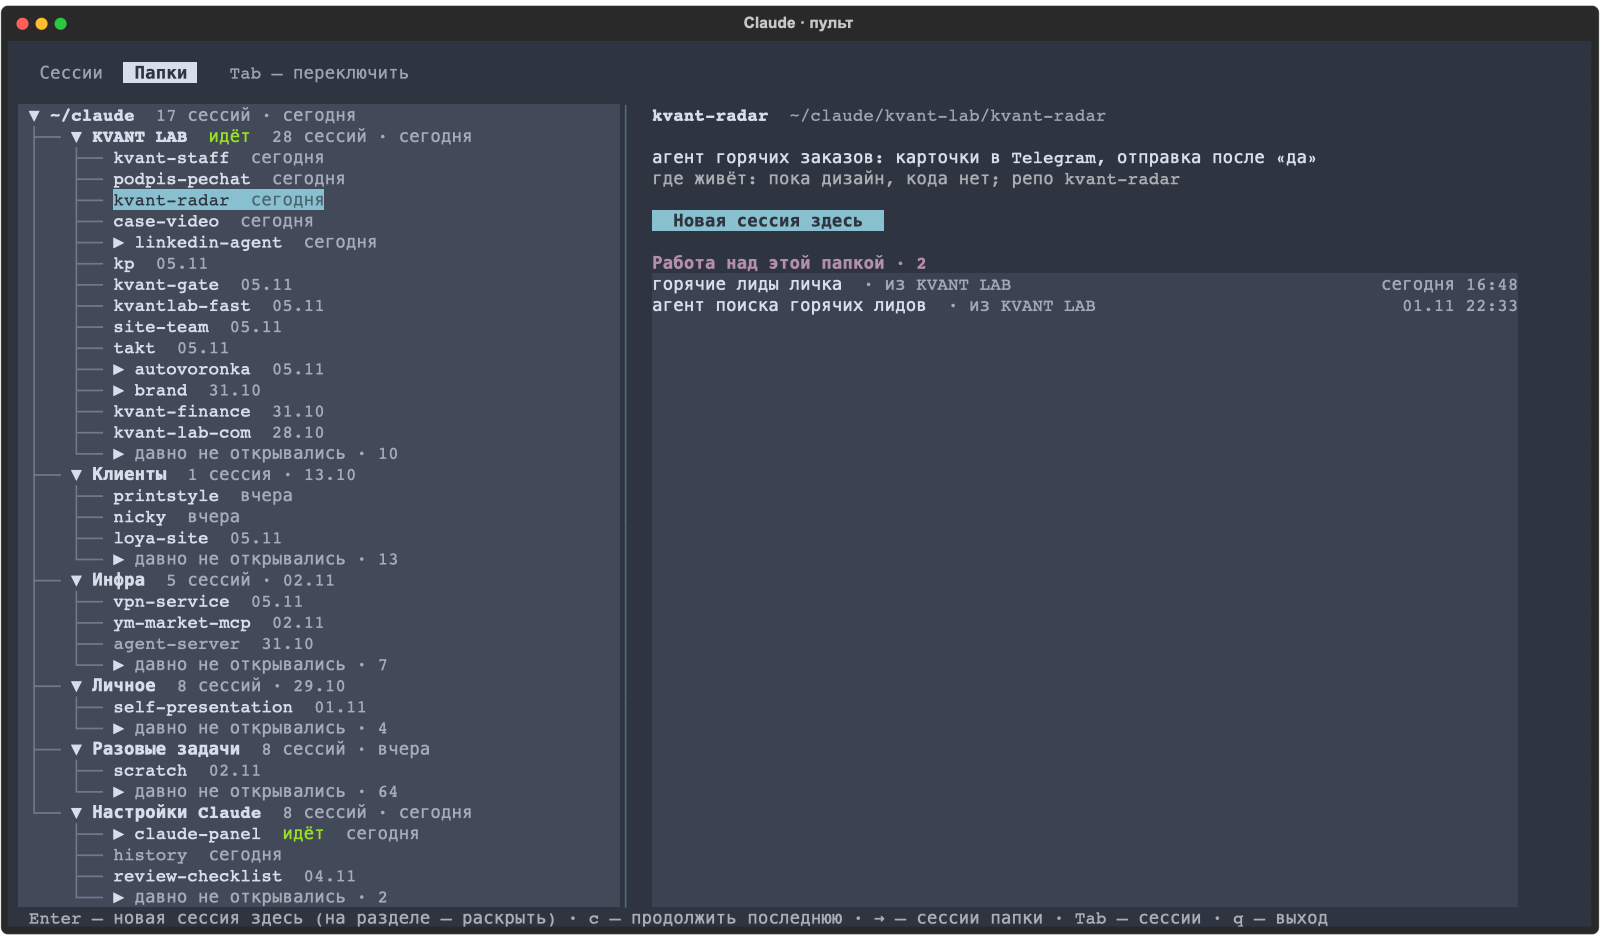
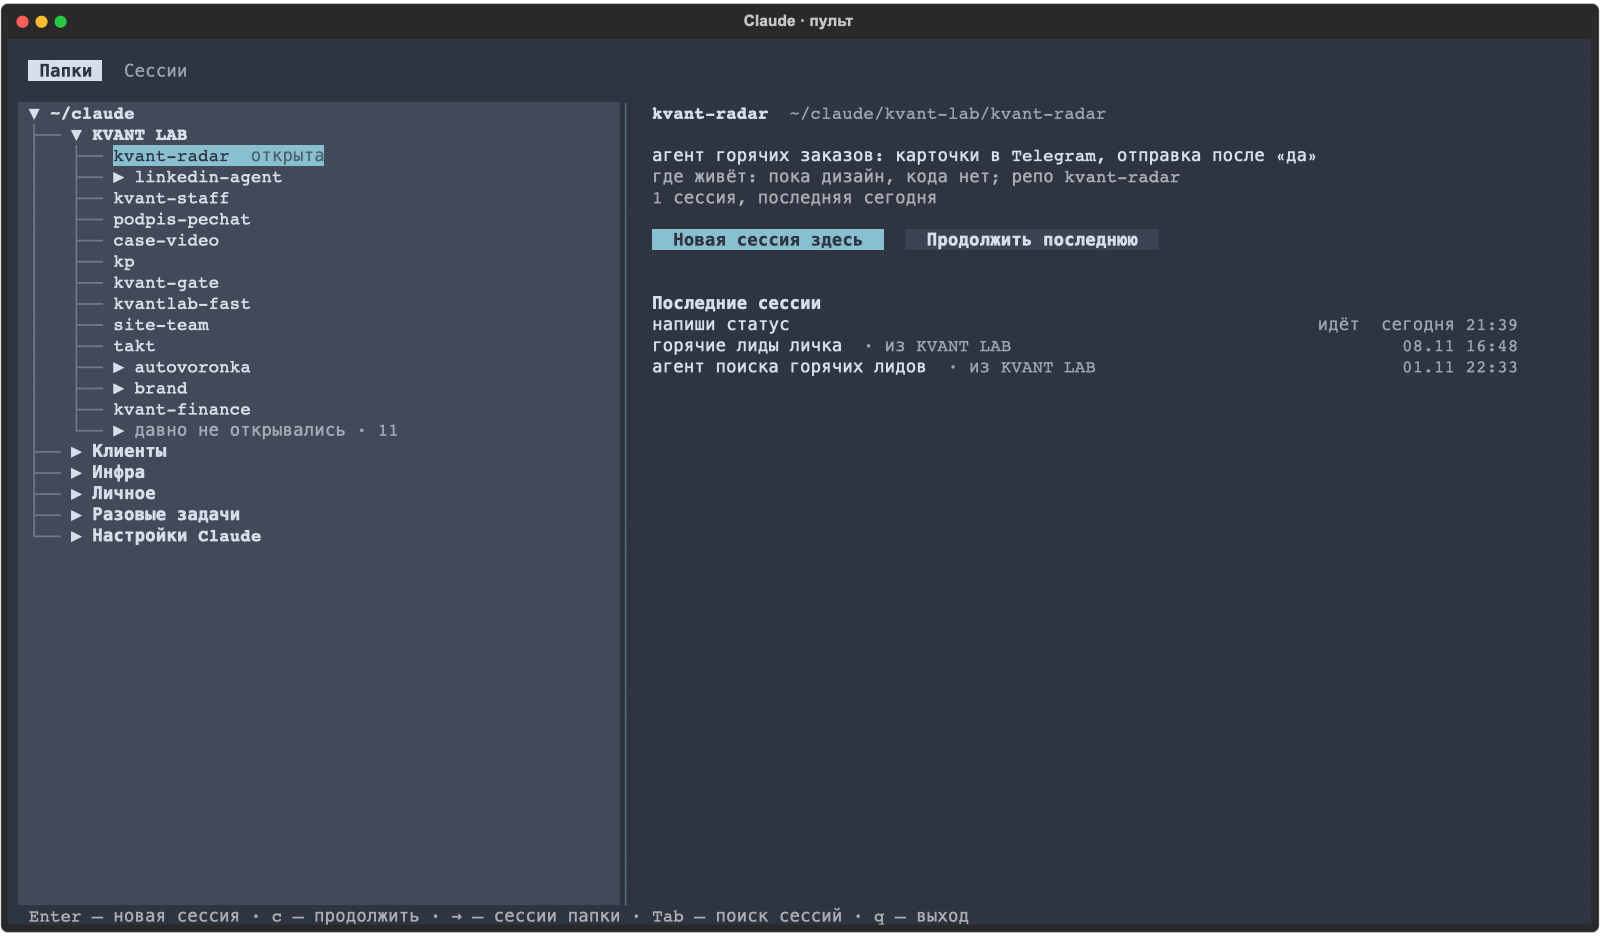
README, картинка и поправка к замыслу: окно открывается на папках
Claude-Session: https://claude.ai/code/session_013tpWyHc9HgKLrzM1me7qNw

diff --git a/README.md b/README.md
@@ -9,8 +9,24 @@
 ## Что умеет
 
 Два режима, Tab переключает. Без эмодзи; тема `nord`, другую можно задать `C_THEME=catppuccin-mocha c`.
+Цветом выделено только то, что ждёт вашего ответа; остальное — обычный и тусклый текст.
 
-**Сессии** — с него окно открывается: найти сессию по памяти и вернуться в неё.
+**Папки** — с него окно открывается: увидеть все проекты и начать или продолжить сессию.
+
+- Дерево `~/claude`, в строках только имена: разделы → проекты → части (рабочие копии
+  `.claude/worktrees/*`, подпапки со своим `CLAUDE.md`). Раскрыт KVANT LAB, остальные разделы
+  свёрнуты. В разделе сверху проекты, где работа шла за последние две недели, самые свежие выше;
+  остальные свёрнуты в «давно не открывались · N». Работой считаются сессии самой папки и её частей,
+  живая сессия и сессии из корня или раздела, которые уходили в эту папку (по `cwd`); прогоны
+  без человека в чужие папки не засчитываются. Рядом с именем — «идёт» или «ждёт ответа», если там
+  сейчас сессия.
+- Справа описание и где живёт (таблицы `CLAUDE.md`), сколько сессий и когда последняя, кнопки
+  «Новая сессия здесь» и «Продолжить последнюю», ниже восемь последних сессий: её собственные
+  и сессии из раздела выше, которые в ней работали (подписаны «из KVANT LAB»).
+- Enter — новая сессия: спросит, о чём (имя «проект · о чём», можно пусто); на разделе Enter
+  раскрывает. `c` — продолжить последнюю, → — к сессиям папки (Enter открывает), `q` — выход.
+
+**Сессии** — найти сессию по памяти и вернуться в неё.
 
 - Курсор сразу в строке поиска. Под ней все ваши сессии из всех папок `~/claude`:
   ждущие ответа первыми, дальше свежие выше. Прогоны без человека (`claude -p`: ежедневная
@@ -25,19 +41,6 @@
   и последний запрос, последний ответ, чем кончилась или что с ней сейчас.
 - ↑↓ выбрать, Enter открыть (живую фоновую — `claude attach`; открытую в другом терминале
   второй раз не запускает и подсказывает переключиться), Esc очистить поиск, ещё раз — выход.
-
-**Папки** — увидеть все проекты и начать новую сессию.
-
-- Дерево `~/claude`: разделы → проекты → части (рабочие копии `.claude/worktrees/*`, подпапки
-  со своим `CLAUDE.md`). В разделе сверху проекты, где работа шла за последние две недели,
-  самые свежие выше; остальные свёрнуты в «давно не открывались · N». Работой считаются сессии
-  самой папки и её частей, живая сессия и сессии из корня или раздела, которые уходили в эту
-  папку (по `cwd`); прогоны без человека в чужие папки не засчитываются.
-- Справа описание и где живёт (таблицы `CLAUDE.md`), кнопки «Новая сессия здесь» и
-  «Продолжить последнюю», ниже «Работа над этой папкой»: её сессии и сессии из раздела выше,
-  которые в ней работали (подписаны «из KVANT LAB»).
-- Enter — новая сессия: спросит, о чём (имя «проект · о чём», можно пусто); на разделе Enter
-  раскрывает. `c` — продолжить последнюю, → — к сессиям папки (Enter открывает), `q` — выход.
 
 Список строится из дерева папок без отдельного конфига. Новый проект появляется сам.
 

diff --git a/docs/superpowers/specs/2026-11-08-sessions-first-design.md b/docs/superpowers/specs/2026-11-08-sessions-first-design.md
@@ -68,3 +68,21 @@
 - Мутационные пробы на поиск, исключение роботов и порядок.
 - Снимок окна в обоих режимах и запуск `c` в настоящем терминале.
 - Сквозная проверка: набрать «лид» → в списке сессии про лиды из KVANT LAB и автоворонки.
+
+## Поправка 11.11.2026: окно снова открывается на папках
+
+Владелец 11.11, слово в слово: «ключевое по панели — чтобы она показывала мне папки как раньше,
+менее нагромождённые и более читаемые. То что там появился цвет ничего, но что она стала пёстрой
+и менее читаемой — плохо». На вопросы отвечать не стал («делай сам»), поэтому решения ниже приняты
+исполнителем, образец — первая версия окна от 03.10 (коммит 6052207).
+
+- Окно открывается на «Папках», фокус в дереве; «Сессии» с поиском — по Tab. Раздел «Как устроено»
+  выше в части «Открывается на „Сессиях“» больше не действует.
+- В строках дерева только имена и, если там сейчас сессия, «идёт» / «ждёт ответа». Числа сессий
+  и даты переехали в карточку: «N сессий, последняя …».
+- При открытии раскрыт только KVANT LAB, как 03.10; раньше раскрывался каждый раздел со свежей
+  работой. Свёртка «давно не открывались · N» и порядок «свежие выше» оставлены.
+- Цвет в тексте — только у «ждёт ответа» и «оборвалась» (жёлтый). Зелёное «идёт», розовый заголовок
+  карточки и жёлтая подсветка найденных слов убраны (найденное — жирным с подчёркиванием).
+- В карточке восемь последних сессий вместо тридцати, без плашки фона; если их больше, заголовок
+  говорит «8 из N, остальные — Tab, поиск».
